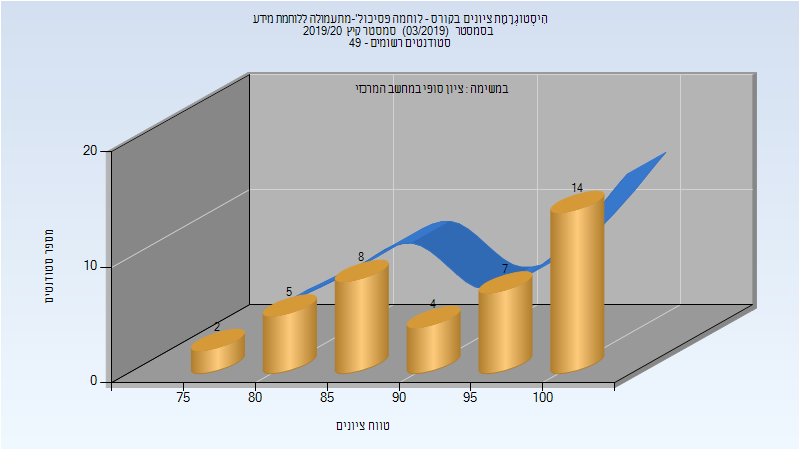
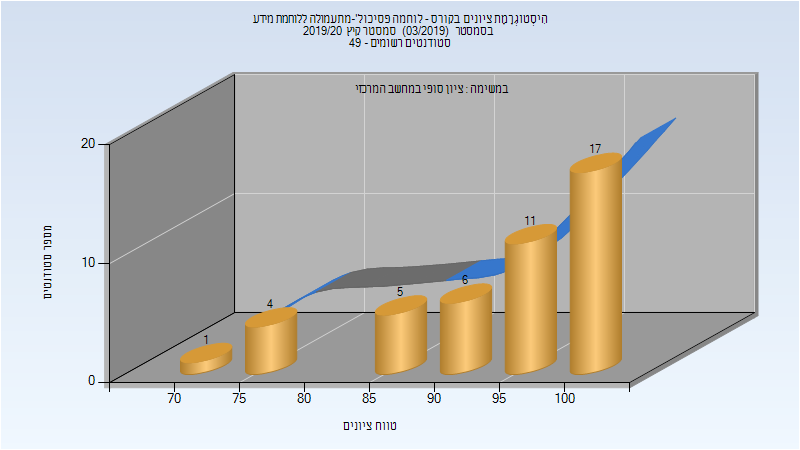
Deploy michael-maltsev/technion-histograms to github.com/michael-maltsev/technion-histograms.git:gh-pages

diff --git a/324444/index.html b/324444/index.html
@@ -820,12 +820,12 @@
 </thead>
 <tbody>
 <tr>
-<td>40</td>
-<td>40/0</td>
+<td>44</td>
+<td>44/0</td>
 <td>100</td>
-<td>75</td>
+<td>70</td>
 <td>100</td>
-<td>91.375</td>
+<td>92.727</td>
 <td>95</td>
 </tr>
 </tbody>

diff --git a/324444/README.md b/324444/README.md
@@ -256,5 +256,5 @@
 
 | סטודנטים | עברו/נכשלו | אחוז עוברים | ציון מינימלי | ציון מקסימלי | ממוצע | חציון |
 | ---- | ---- | ---- | ---- | ---- | ---- | ---- |
-| 40 | 40/0 | 100 | 75 | 100 | 91.375 | 95 |
+| 44 | 44/0 | 100 | 70 | 100 | 92.727 | 95 |
 
